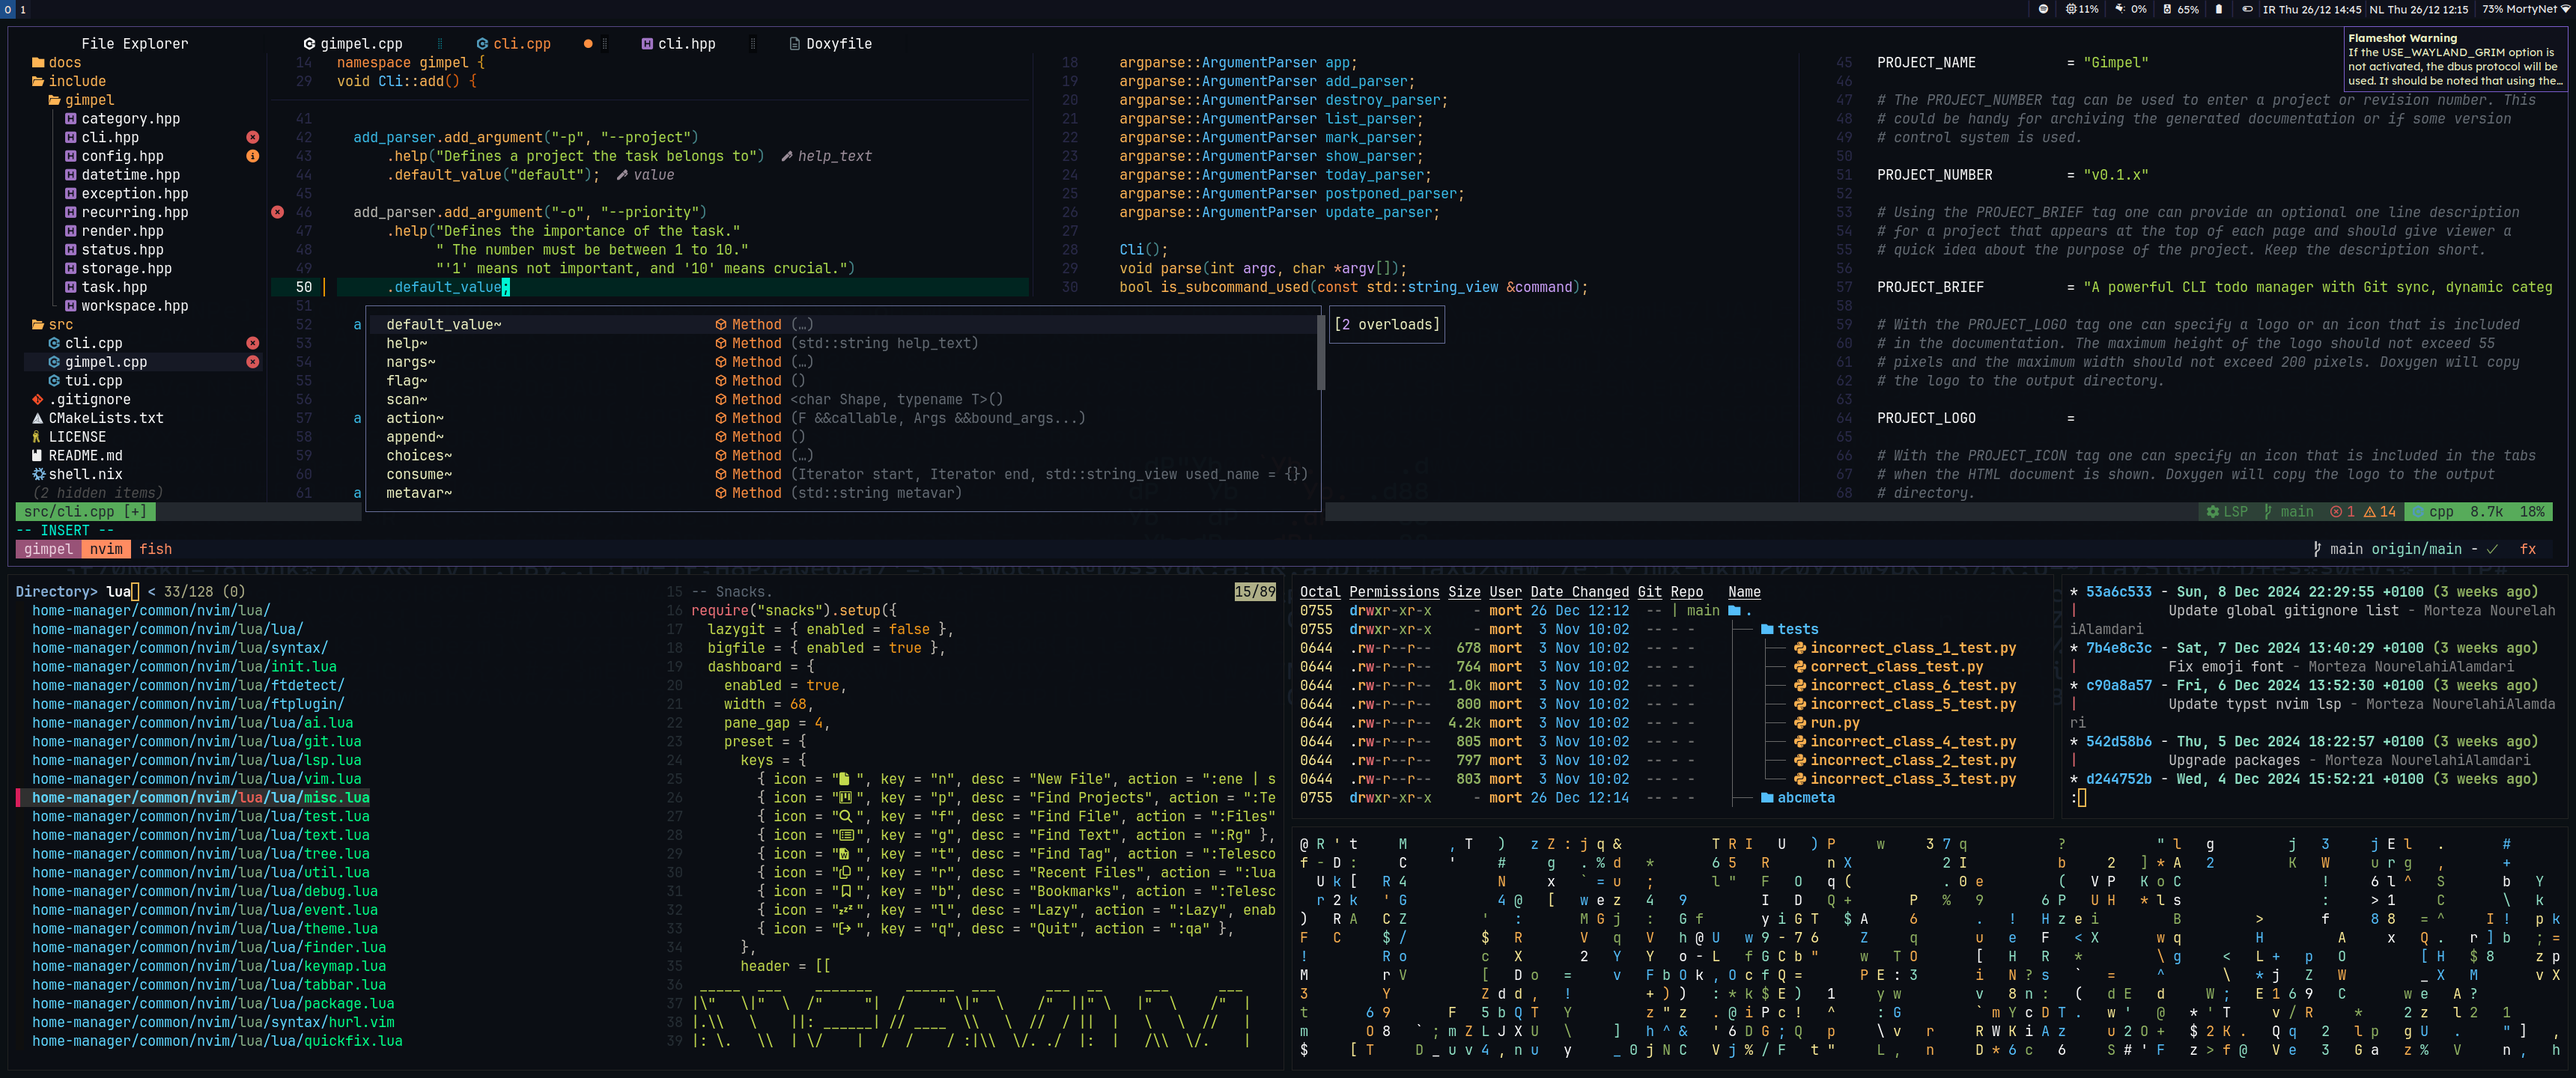
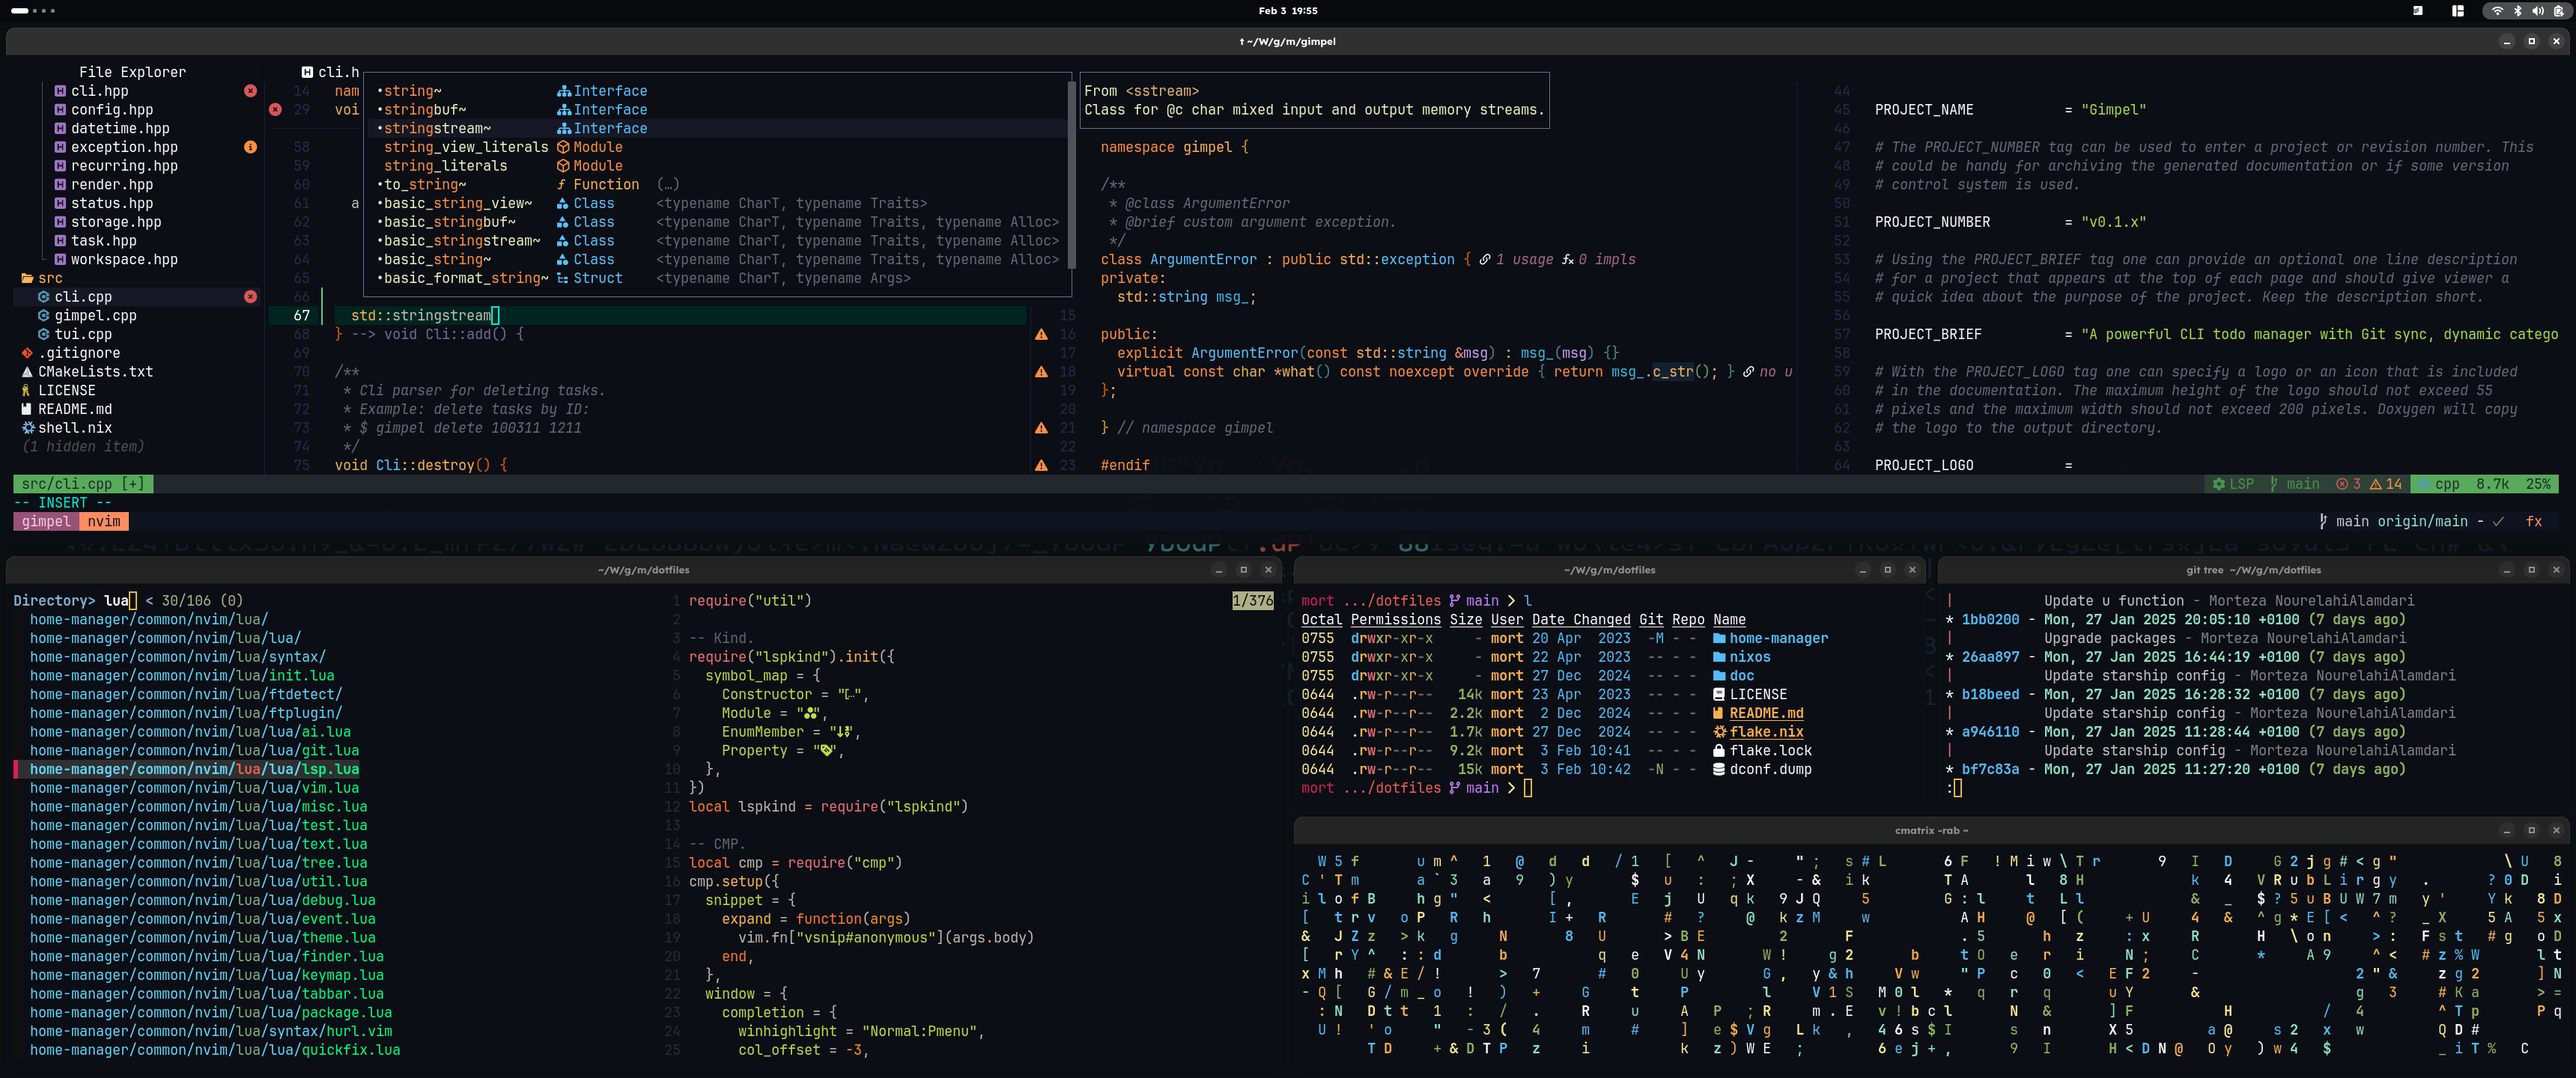
Update README and screenshot

Changed region(s): [[0.0, 0.0, 1.0, 1.0], [0.0933, 0.3125, 0.1244, 0.3438], [0.0933, 0.25, 0.1244, 0.2812]]

diff --git a/README.md b/README.md
@@ -15,9 +15,7 @@ My environment config. I tried to keep it minimal and simple as much as I could.
 | Category | Tool |
 |----------|------|
 | Distro | [NixOS](https://nixos.org/) |
-| Window Manager | [Sway](https://github.com/swaywm/sway) |
-| Status Bar | [i3status-rust](https://github.com/greshake/i3status-rust) |
-| Mako | [Mako](https://github.com/emersion/mako) |
+| Desktop | [Gnome](https://www.gnome.org) |
 | Terminal | [Alacritty](https://alacritty.org) |
 | Shell | [Fish](https://fishshell.com) |
 | Shell Prompt | [Starship](https://github.com/starship/starship) |
@@ -25,11 +23,7 @@ My environment config. I tried to keep it minimal and simple as much as I could.
 | Editor/IDE | [Neovim](https://github.com/neovim/neovim) |
 | DB | [dbcli tools](https://github.com/dbcli) |
 | Fonts | Display: [Lexend](https://github.com/googlefonts/lexend), [VarizMatn](https://github.com/rastikerdar/vazirmatn), Monospace: [JetBrainsMono Nerd Font](https://www.nerdfonts.com), [Noto Color Emoji](https://github.com/C1710/blobmoji) |
-| File Manager | [Broot](https://github.com/Canop/broot) |
-| Launcher | [Rofi-Wayland](https://github.com/lbonn/rofi) |
 | Browser | [Firefox](https://www.mozilla.org) |
-| GTK Theme | [Yaru](https://github.com/ubuntu/yaru) |
-| Icon | [Yaru](https://github.com/ubuntu/yaru) |
 | Wallpaper | Created by me, under the same license as this repository. |
 
 ## Screenshot
